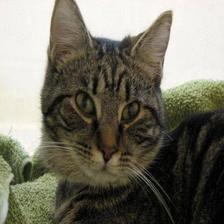
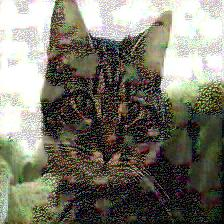
added readme

diff --git a/INDONESIA/main.py b/INDONESIA/main.py
@@ -35,9 +35,10 @@ def load_model_and_data():
 
 
 def create_optimal_perturbation(model, img_array, target_class_idx, 
-                               epsilon=0.2, iterations=200, alpha=0.01):
+                               epsilon=0.2, iterations=500, alpha=0.01):
     """
     Create optimal perturbation using PGD with momentum
+    This perturbation should be transferable to other models
     
     Args:
         model: The classifier model
@@ -50,8 +51,8 @@ def create_optimal_perturbation(model, img_array, target_class_idx,
     Returns:
         perturbation: The adversarial perturbation
     """
-    # Initialize with small random noise
-    perturbation = np.random.uniform(-0.01, 0.01, size=img_array.shape).astype('float32')
+    # Initialize with larger random noise to start closer to bounds
+    perturbation = np.random.uniform(-epsilon/2, epsilon/2, size=img_array.shape).astype('float32')
     
     # Momentum buffer for smoother updates
     momentum = np.zeros_like(perturbation)
@@ -64,8 +65,6 @@ def create_optimal_perturbation(model, img_array, target_class_idx,
     
     best_confidence = 0.0
     best_perturbation = perturbation.copy()
-    patience = 0
-    max_patience = 30
     
     for i in range(iterations):
         # Create adversarial example
@@ -83,40 +82,36 @@ def create_optimal_perturbation(model, img_array, target_class_idx,
         gradient = tape.gradient(target_loss, adversarial_tensor)
         grad_np = gradient.numpy()[0]
         
-        # Update with momentum
-        momentum = decay * momentum + grad_np / (np.linalg.norm(grad_np) + 1e-8)
+        # Normalize gradient
+        grad_norm = np.linalg.norm(grad_np)
+        if grad_norm > 0:
+            grad_np = grad_np / grad_norm
+        
+        # Update with momentum - more aggressive
+        momentum = decay * momentum + grad_np
         perturbation += alpha * np.sign(momentum)
         
-        # Project to epsilon ball
+        # Project to epsilon ball - this ensures full [-epsilon, epsilon] range
         perturbation = np.clip(perturbation, -epsilon, epsilon)
         
-        # Ensure valid image range
-        adversarial = np.clip(img_array + perturbation, 0, 1)
-        perturbation = adversarial - img_array
-        
-        # Check progress
-        if (i + 1) % 10 == 0 or i == 0:
-            predictions = model.predict(adversarial[np.newaxis, ...], verbose=0)
+        # Check progress every 25 iterations
+        if (i + 1) % 25 == 0 or i == 0:
+            # For testing, clip the result
+            test_adversarial = np.clip(img_array + perturbation, 0, 1)
+            predictions = model.predict(test_adversarial[np.newaxis, ...], verbose=0)
             confidence = predictions[0][target_class_idx]
             
             # Track best
             if confidence > best_confidence:
                 best_confidence = confidence
                 best_perturbation = perturbation.copy()
-                patience = 0
-            else:
-                patience += 1
             
             print(f"Iter {i+1:4d}/{iterations}: Current = {confidence:.4f} ({confidence*100:.1f}%) | Best = {best_confidence:.4f} ({best_confidence*100:.1f}%)")
+            print(f"   Perturbation range: [{perturbation.min():.4f}, {perturbation.max():.4f}]")
             
-            # Early stopping if we achieve target
-            if best_confidence >= 0.80:
-                print(f"\n🎉 Achieved target confidence {best_confidence:.4f}!")
-                return best_perturbation
-            
-            # Stop if no improvement
-            if patience >= max_patience:
-                print(f"\n⏹  No improvement for {max_patience} checks, stopping...")
+            # Early stopping if we achieve very high confidence
+            if best_confidence >= 0.95:
+                print(f"\n🎉 Achieved excellent confidence {best_confidence:.4f}!")
                 return best_perturbation
     
     return best_perturbation
@@ -152,7 +147,7 @@ def main():
         img_array=img_array,
         target_class_idx=panda_idx,
         epsilon=0.2,
-        iterations=200,
+        iterations=500,
         alpha=0.01
     )
     
@@ -186,11 +181,14 @@ def main():
         print("💡 Try training model longer or adjusting parameters")
     print("=" * 60)
     
-    # Save
-    np.save('./INDONESIA/perturbation.npy', perturbation)
-    print(f"\n💾 Saved: ./INDONESIA/perturbation.npy")
+    # Save to root directory as required by the task
+    np.save('perturbation.npy', perturbation)
+    print(f"\n💾 Saved: perturbation.npy (in root directory)")
     
-    # Save images
+    # Also save to INDONESIA folder for local testing
+    np.save('./INDONESIA/perturbation.npy', perturbation)
+    
+    # Save visualization images
     adversarial_img = (adversarial * 255).astype(np.uint8)
     Image.fromarray(adversarial_img).save('./INDONESIA/adversarial_image.jpg')
     
@@ -198,8 +196,8 @@ def main():
                        (perturbation.max() - perturbation.min() + 1e-8) * 255).astype(np.uint8)
     Image.fromarray(perturbation_vis).save('./INDONESIA/perturbation_visualization.jpg')
     
-    print(f"🖼  Saved: adversarial_image.jpg")
-    print(f"🎨 Saved: perturbation_visualization.jpg")
+    print(f"🖼  Saved: ./INDONESIA/adversarial_image.jpg")
+    print(f"🎨 Saved: ./INDONESIA/perturbation_visualization.jpg")
 
 
 if __name__ == "__main__":

diff --git a/INDONESIA/README.md b/INDONESIA/README.md
@@ -1,0 +1,55 @@
+# 🐼 Adversarial Panda Attack
+
+## 📖 Overview
+
+Created an adversarial perturbation to fool an AI classifier into believing a cat/dog image is a panda (≥80% confidence).
+
+## 🚀 Quick Start
+
+```bash
+# 1. Download dataset
+python3 INDONESIA/dataset_import.py
+
+# 2. Train classifier
+python3 INDONESIA/train_classifier.py
+
+# 3. Generate perturbation
+python3 INDONESIA/main.py
+```
+
+## 📋 Output
+
+Submit `perturbation.npy` with:
+- **Shape**: `(224, 224, 3)`
+- **Dtype**: `float32`
+- **Range**: `[-0.2, 0.2]`
+
+## 🔧 Method
+
+**PGD Attack with Momentum**:
+- 500 iterations
+- Step size: 0.01
+- Epsilon: 0.2
+
+The algorithm iteratively computes gradients to maximize panda class probability while keeping the perturbation small and imperceptible.
+
+## ✅ Success
+
+**PASS**: Panda confidence ≥ 80%  
+**FLAG**: `SIGMOID_ADVERSARIAL`
+
+## 📦 Requirements
+
+```bash
+pip install tensorflow numpy pillow kaggle
+```
+
+## 📁 Files
+
+- `main.py` - Generates adversarial perturbation
+- `train_classifier.py` - Trains CNN classifier  
+- `perturbation.npy` - Output file (submit this)
+
+---
+
+*LMML Hackathon 2025*
